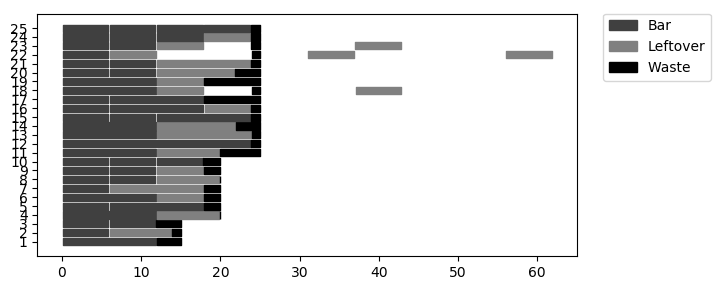
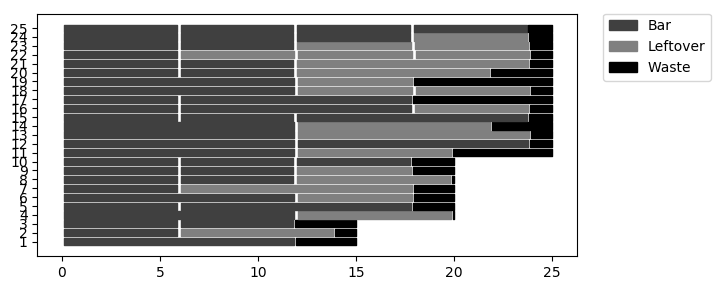
corrigido bug com plot de barras

diff --git a/Cutting_P/Modelo_Cplex.cpp b/Cutting_P/Modelo_Cplex.cpp
@@ -541,18 +541,20 @@ void Modelo_Cplex::PlotarBarras() {
 	txtsolu.open(xu, fstream::trunc);
 
 	vector<int> UsedCutPatterns(H);
+	for (int h = 0; h < H; h++)
+		UsedCutPatterns[h] = 0;
 
 
 	for (int h = 0; h < H; h++)
 		for (int w = 0; w < W; w++)
 			for (int v = 0; v < V; v++)
 				if (cplex.isExtracted(CPLEX_y_tri[h][w][v]) && cplex.getValue(CPLEX_y_tri[h][w][v]) > 0)
-					UsedCutPatterns[h] += cplex.getValue(CPLEX_y_tri[h][w][v]);
+					UsedCutPatterns[h] = cplex.getValue(CPLEX_y_tri[h][w][v]);
 
 	for (int h = 0; h < H; h++)
 		for (int w = 0; w < W; w++)
 			if (cplex.isExtracted(CPLEX_y_bi[h][w]) && cplex.getValue(CPLEX_y_bi[h][w]) > 0)
-				UsedCutPatterns[h] += cplex.getValue(CPLEX_y_bi[h][w]);
+				UsedCutPatterns[h] = cplex.getValue(CPLEX_y_bi[h][w]);
 
 
 	txtsolu << 1 << "," << 0 << "," << Maior_Barra << ",Type 0" << endl;
@@ -575,8 +577,8 @@ void Modelo_Cplex::PlotarBarras() {
 						aux += L[w];
 					}
 					else {
-						txtsolu << contador << "," << aux + 0.1 << "," << aux + b[W+w - Gamma] - 0.1 << ",Type 2" << endl;
-						aux += b[w];
+						txtsolu << contador << "," << aux + 0.1 << "," << aux + b[W + w - Gamma] - 0.1 << ",Type 2" << endl;
+						aux += b[W + w - Gamma];
 					}
 				}
 			}
